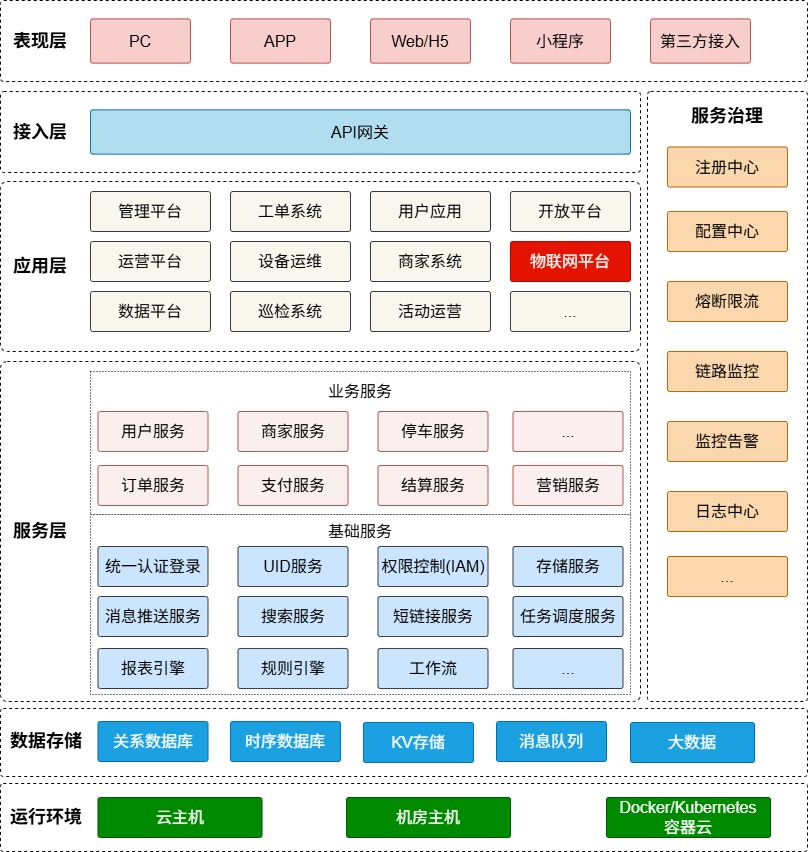
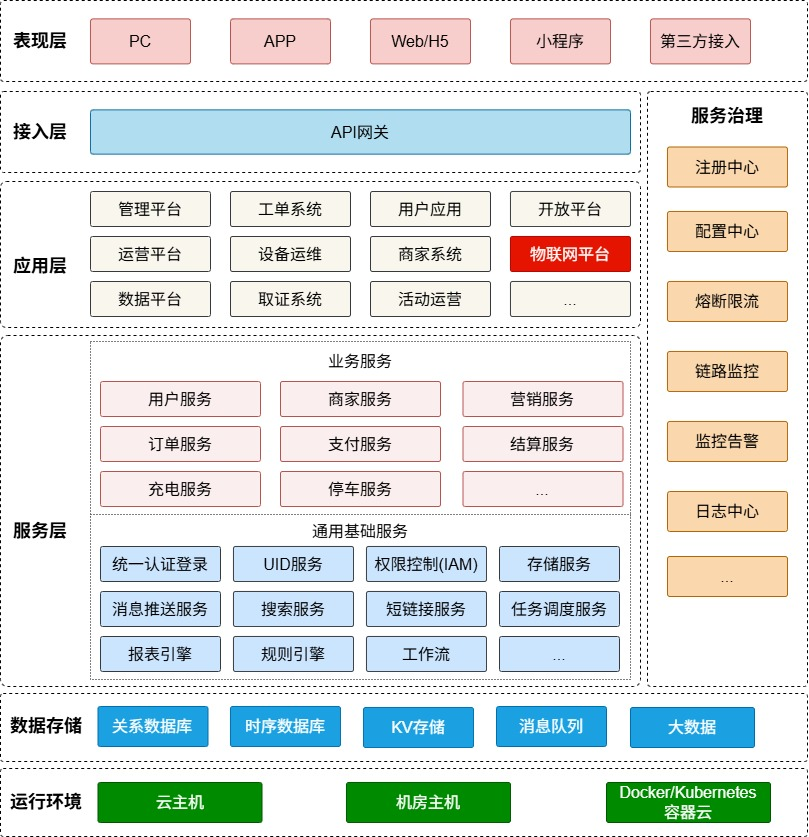
update README

diff --git a/thingshub-transport/thingshub-transport-onvif/src/main/java/io/thingshub/transport/onvif/OnvifServer.java b/thingshub-transport/thingshub-transport-onvif/src/main/java/io/thingshub/transport/onvif/OnvifServer.java
@@ -1,0 +1,77 @@
+package io.thingshub.transport.onvif;
+
+import io.thingshub.transport.Server;
+import io.thingshub.transport.Transport;
+import jakarta.annotation.PreDestroy;
+import jakarta.inject.Inject;
+import lombok.extern.slf4j.Slf4j;
+import reactor.core.publisher.Mono;
+import reactor.netty.Connection;
+import reactor.netty.DisposableServer;
+
+/**
+ * <p>
+ * ONVIF服务器
+ * </p>
+ *
+ * @author albert pi
+ * @since 1.0.0
+ */
+
+@Slf4j(topic = "io.thingshub.transport.server")
+public class OnvifServer
+//implements Server 
+{
+
+	@Inject
+	private OnvifTransportConfig onvifTransportConfig;
+
+	private DisposableServer disposableServer;
+
+//	@Override
+	public Transport transport() {
+		return Transport.GB28181_TCP;
+	}
+
+//	@Override
+	public String name() {
+		return onvifTransportConfig.getServerName();
+	}
+
+//	@Override
+	public Mono<Server> start() {
+		return Mono.empty();
+//		return bind(onvifTransportConfig).doOnNext(this::afterBinding).doOnSuccess(this::onSuccess).doOnError(this::onError).thenReturn(this).cast(Server.class);
+	}
+
+//	@Override
+	public void attachHandlers(Connection connection) {
+		// TODO
+	}
+
+	private void afterBinding(DisposableServer disposableServer) {
+		this.disposableServer = disposableServer;
+		Runtime.getRuntime().addShutdownHook(new Thread(() -> {
+			if (!disposableServer.isDisposed()) {
+				disposableServer.dispose();
+			}
+		}));
+	}
+
+	private void onSuccess(DisposableServer disposableServer) {
+		log.info("Thingshub ONVIF transport server has started on port {}", onvifTransportConfig.getPort());
+	}
+
+	private void onError(Throwable e) {
+		log.error("Failed to start GB28181 TCP transport server. Error: ", e);
+	}
+
+//	@Override
+	@PreDestroy
+	public void shutdown() {
+		if (this.disposableServer != null && !this.disposableServer.isDisposed()) {
+			this.disposableServer.dispose();
+		}
+	}
+
+}

diff --git a/thingshub-transport/thingshub-transport-onvif/src/main/java/io/thingshub/transport/onvif/OnvifTransportConfig.java b/thingshub-transport/thingshub-transport-onvif/src/main/java/io/thingshub/transport/onvif/OnvifTransportConfig.java
@@ -1,0 +1,23 @@
+package io.thingshub.transport.onvif;
+
+import io.thingshub.ioc.Config;
+import io.thingshub.ioc.Value;
+import io.thingshub.transport.TransportConfig;
+import lombok.Getter;
+
+@Config
+public class OnvifTransportConfig extends TransportConfig {
+
+	@Value("${thingshub.transport.onvif.name: ONVIF Transport Server}")
+	@Getter
+	private String serverName;
+
+	@Value("${thingshub.transport.onvif.host: 0.0.0.0}")
+	@Getter
+	private String host;
+
+	@Value("${thingshub.transport.onvif.port: 2020}")
+	@Getter
+	private int port;
+
+}

diff --git a/thingshub-transport/thingshub-transport-onvif/src/main/java/io/thingshub/transport/onvif/OnvifChannelContext.java b/thingshub-transport/thingshub-transport-onvif/src/main/java/io/thingshub/transport/onvif/OnvifChannelContext.java
@@ -1,0 +1,13 @@
+package io.thingshub.transport.onvif;
+
+import io.netty.channel.ChannelHandlerContext;
+import io.thingshub.config.TenantSettings;
+import io.thingshub.transport.ChannelContextWrapper;
+
+public class OnvifChannelContext extends ChannelContextWrapper {
+
+	public OnvifChannelContext(ChannelHandlerContext ctx, TenantSettings tenantSettings, String username, String clientId, String clientAddr, int keepalive) {
+		super(ctx, tenantSettings, username, clientId, clientAddr, keepalive, "", 0);
+	}
+
+}